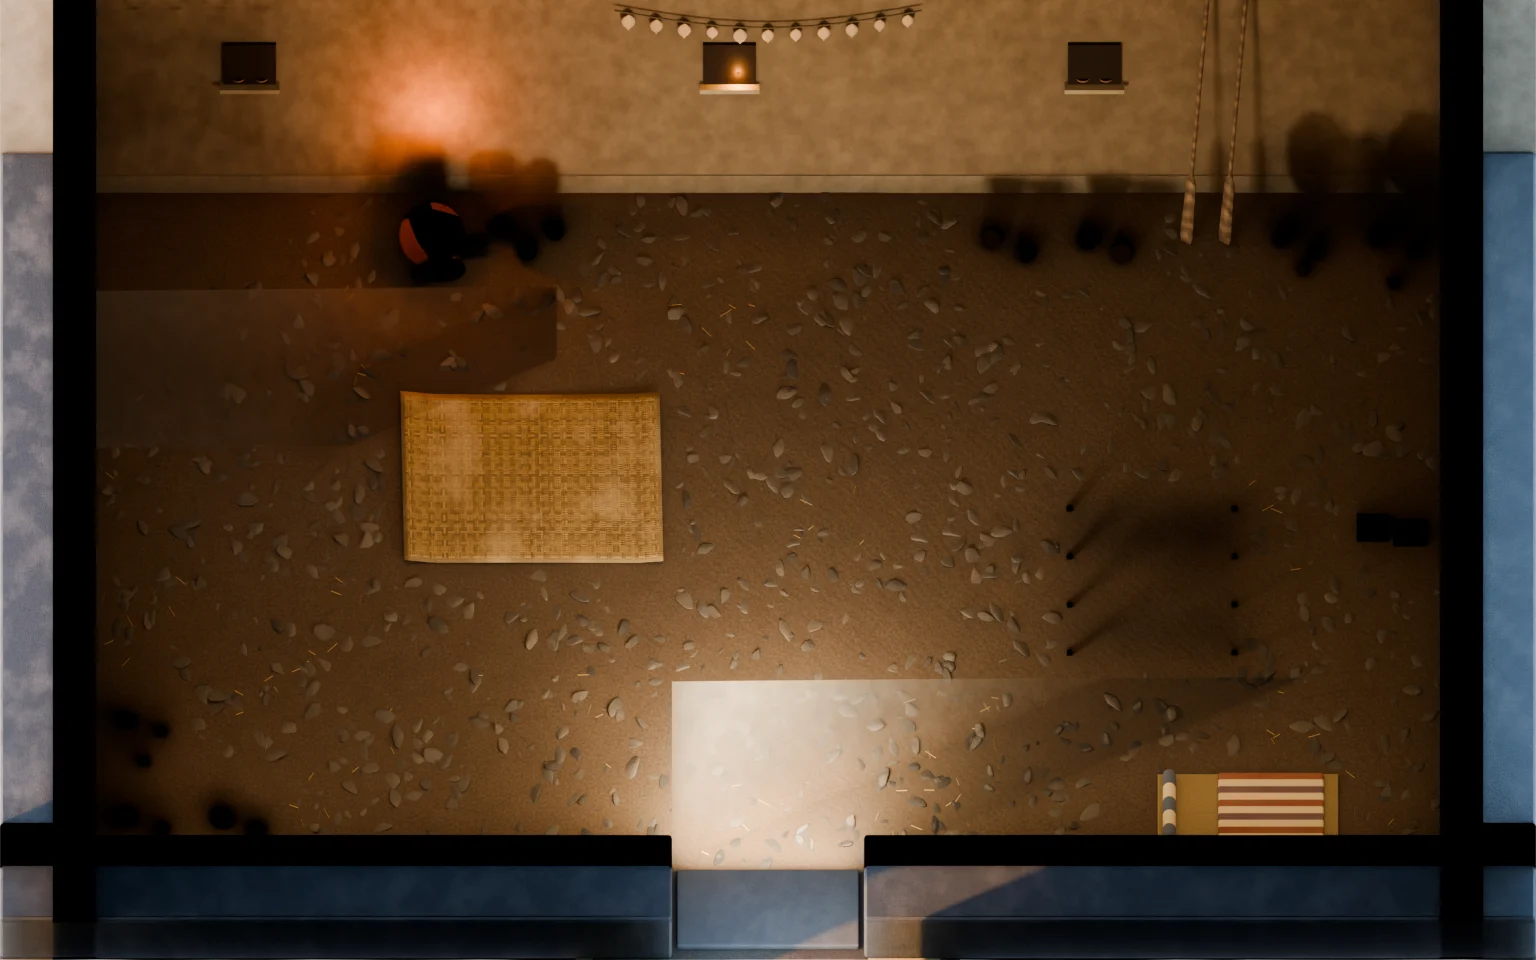
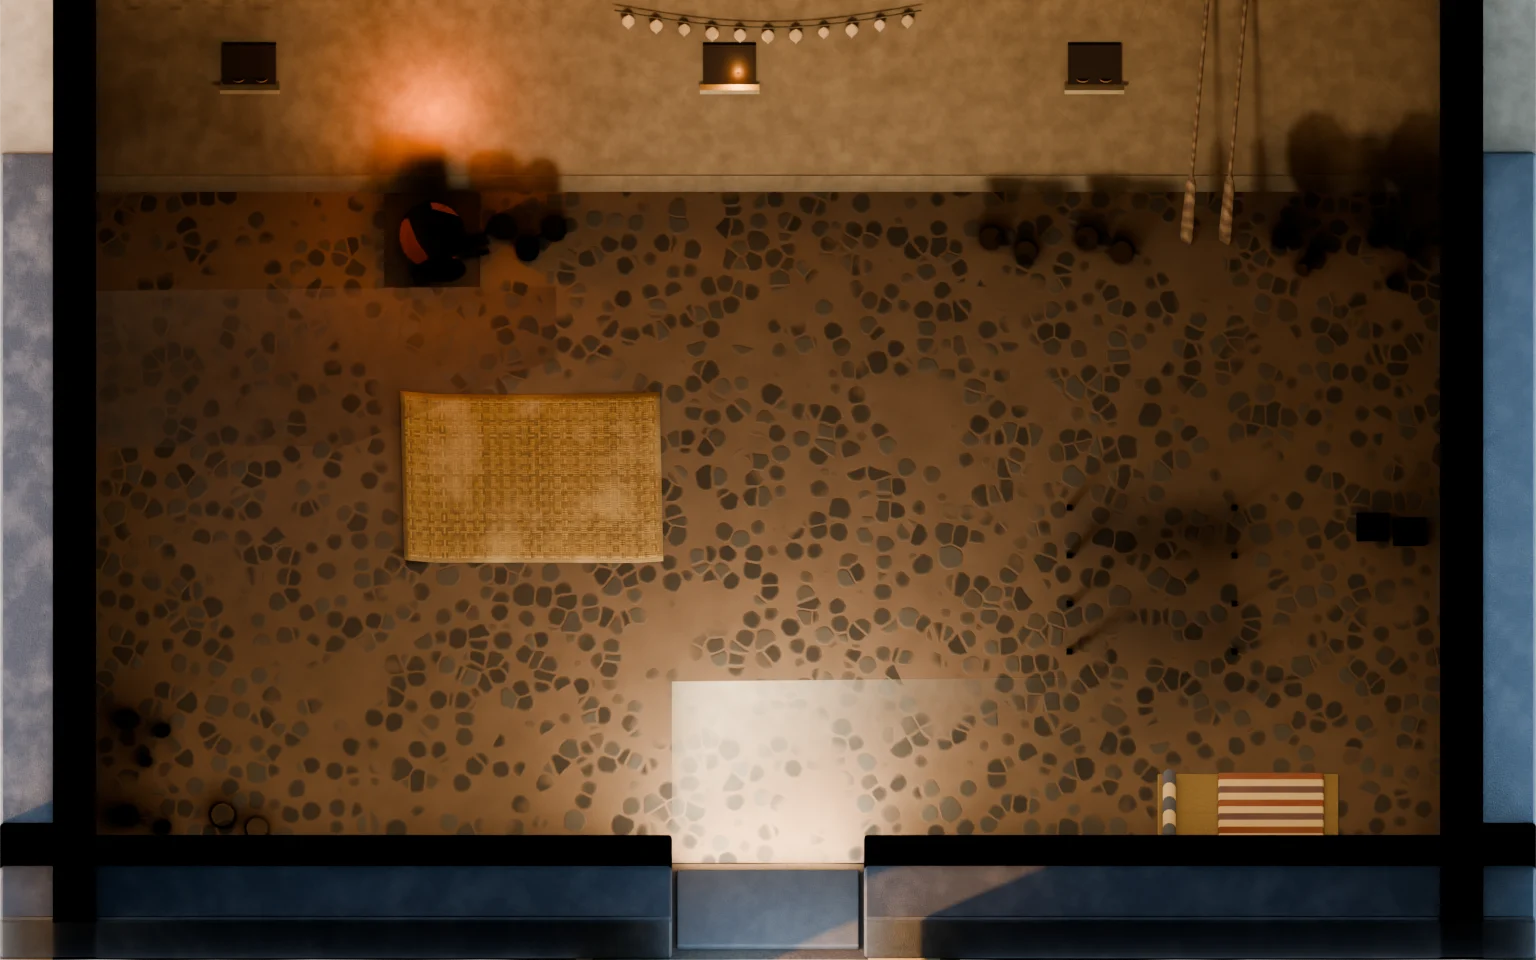
art(galilee): a cobbled earth floor in Shelomit's house
The room's floor stones were scattered meshes that read, in the game's
close view, as dry leaves strewn on the floor. The floor is now a surface
laid over the whole room (under whatever stands on it, not the hearth):
rounded basalt cobbles of their own sizes packed in beaten earth, worn
smooth, bare earth in worn patches and where a stone has gone. The house
is rendered again (both sets).

diff --git a/tools/art/lib/lake_materials.py b/tools/art/lib/lake_materials.py
@@ -398,6 +398,73 @@ def linen(color="#ddd2b8", name="sail-linen", patches=True):
     return cached(("linen", color, name, patches), build)
 
 
+def cobble_floor(earth="#5c4a3a", stone="#34312d", name="cobble-floor"):
+    """A house floor of basalt cobbles packed in beaten earth, seen from
+    above: rounded stones a hand to two hands across, set close, each its
+    own tone, their tops worn smooth and a little glossy; earth between
+    them, and bare earth where the stones have gone (in worn patches).
+    Object coordinates in metres."""
+
+    def build():
+        n = Nodes(name)
+        obj = n.coords()
+        # Stones: Voronoi cells, warped a little so they are not polygons.
+        warp = n.noise(5.0, 3.0, 0.55, obj)
+        wv = n.new("ShaderNodeVectorMath", _operation="MULTIPLY_ADD", Vector=(warp, "Color"))
+        wv.inputs[1].default_value = (0.07, 0.07, 0.0)
+        n.link(obj[0], obj[1], wv, 2)
+        cells = n.new("ShaderNodeTexVoronoi", Scale=4.6, Randomness=0.9, Vector=(wv, "Vector"))
+        edge = n.new("ShaderNodeTexVoronoi", Scale=4.6, Randomness=0.9, Vector=(wv, "Vector"), _feature="DISTANCE_TO_EDGE")
+        sepc0 = n.new("ShaderNodeSeparateColor", Color=(cells, "Color"))
+        # A stone is a rounded lump about its cell's centre, of its own size
+        # (so the gaps between stones vary), never past the cell's edge.
+        radius = n.math("MULTIPLY_ADD", (sepc0, "Blue"), 0.22)
+        radius.inputs[2].default_value = 0.44
+        inside = n.math("SUBTRACT", (radius, "Value"), (cells, "Distance"))
+        body = n.new("ShaderNodeMapRange", Value=(inside, "Value"), **{"From Min": 0.0, "From Max": 0.12, "To Min": 0.0, "To Max": 1.0})
+        body.clamp = True
+        clear = n.new("ShaderNodeMapRange", Value=(edge, "Distance"), **{"From Min": 0.03, "From Max": 0.09, "To Min": 0.0, "To Max": 1.0})
+        clear.clamp = True
+        rim = n.math("MULTIPLY", (body, "Result"), (clear, "Result"))
+        # Rounded (the earth creeps up its sides).
+        dome = n.math("SQRT", (rim, "Value"))
+        # Worn patches of bare earth (stones gone or buried), and single
+        # stones missing here and there.
+        patch = n.noise(0.9, 3.0, 0.55, obj)
+        pm = n.new("ShaderNodeMapRange", Value=(patch, "Fac"), **{"From Min": 0.56, "From Max": 0.62, "To Min": 1.0, "To Max": 0.0})
+        sepc = n.new("ShaderNodeSeparateColor", Color=(cells, "Color"))
+        gone = n.new("ShaderNodeMapRange", Value=(sepc, "Green"), **{"From Min": 0.9, "From Max": 0.91, "To Min": 1.0, "To Max": 0.0})
+        keep = n.math("MULTIPLY", (pm, "Result"), (gone, "Result"))
+        is_stone = n.math("MULTIPLY", (dome, "Value"), (keep, "Value"))
+        # Each stone its own tone: dark basalt, a few grey or brown.
+        tone = n.ramp((sepc, "Red"), [(0.0, shade(stone, -0.18)), (0.45, stone), (0.75, shade(stone, 0.1)), (0.9, _toward(stone, "#5e5044", 0.4)), (1.0, shade(stone, -0.08))])
+        pits = n.new("ShaderNodeTexVoronoi", Scale=180.0, Vector=obj)
+        pv = n.new("ShaderNodeMapRange", Value=(pits, "Distance"), **{"From Min": 0.0, "From Max": 0.1, "To Min": 0.45, "To Max": 0.0})
+        stone_col = (n.mix((pv, "Result"), (tone, "Color"), shade(stone, -0.5)), 2)
+        # Dust in the stones' low sides, the tops polished by feet.
+        dust = n.math("SUBTRACT", 1.0, (dome, "Value"))
+        dm = n.math("MULTIPLY", (dust, "Value"), 0.25)
+        stone_col = (n.mix((dm, "Value"), stone_col, earth), 2)
+        # The earth: grit, mottling, crumbs of straw.
+        big = n.noise(2.5, 4.0, 0.6, obj)
+        ec = (n.mix((big, "Fac"), shade(earth, -0.14), shade(earth, 0.08)), 2)
+        grit = n.new("ShaderNodeTexVoronoi", Scale=90.0, Vector=obj)
+        gm = n.new("ShaderNodeMapRange", Value=(grit, "Distance"), **{"From Min": 0.0, "From Max": 0.12, "To Min": 0.4, "To Max": 0.0})
+        ec = (n.mix((gm, "Result"), ec, shade(earth, -0.4)), 2)
+        col = (n.mix((is_stone, "Value"), ec, stone_col), 2)
+        rough = n.new("ShaderNodeMapRange", Value=(is_stone, "Value"), **{"From Min": 0.0, "From Max": 1.0, "To Min": 0.95, "To Max": 0.62})
+        fine = n.noise(60.0, 4.0, 0.6, obj)
+        fm = n.math("MULTIPLY", (fine, "Fac"), 0.08)
+        h = n.math("ADD", (is_stone, "Value"), (fm, "Value"))
+        pvm = n.math("MULTIPLY", (pv, "Result"), 0.2)
+        h = n.math("SUBTRACT", (h, "Value"), (pvm, "Value"))
+        bump = n.bump((h, "Value"), strength=0.4, distance=0.012)
+        n.bsdf(**{"Base Color": col, "Roughness": (rough, "Result"), "Specular IOR Level": 0.4, "Normal": (bump, "Normal")})
+        return n.mat
+
+    return cached(("cobble_floor", earth, stone, name), build)
+
+
 def rush_mat(color="#a88c5c", binding="#6e5a3c", name="rush-mat"):
     """A plaited rush mat (UV: 0..1 across it, `size` in metres as the
     object's 'mat_w'/'mat_h'): strips a finger wide plaited over-and-under

diff --git a/tools/art/lib/kit_lake.py b/tools/art/lib/kit_lake.py
@@ -635,18 +635,6 @@ class LakeKit(BoatsMixin, HousesMixin):
                 c.objects.unlink(o)
             cob.objects.link(o)
         out["cobbles"] = cob
-        # The same stones in dusty basalt, flattened: a floor's cobbles.
-        flr = col("floorstones")
-        # Worn smooth and dark by feet, a little dust in the hollows.
-        fmat = L.basalt("#3c3833", "floor-basalt", dust=0.08, lichen=0.0)
-        for o in list(cob.objects):
-            c = o.copy()
-            c.data = o.data.copy()
-            c.data.materials.clear()
-            c.data.materials.append(fmat)
-            c.data.transform(Matrix.Scale(0.55, 4, Vector((0, 0, 1))))
-            flr.objects.link(c)
-        out["floorstones"] = flr
         sh = col("shells")
         smat = L.shell()
         for t in range(3):
@@ -1440,13 +1428,22 @@ class LakeKit(BoatsMixin, HousesMixin):
         self.exposure += 0.35
         m = self.map
         rng = self.rng
-        lib = self._lake_library()
-        floor = m.tiles("floor")
-        # Set close in the beaten earth, their tops worn flat, over most of
-        # the floor (bare earth by the oven and in a few worn patches).
-        em = self.emitter("floor-cobbles", floor, 2, lambda x0, y0: (x0 * 3.7 + y0 * 5.3) % 1.0 < 0.8, z=-0.03)
-        em["wet_z"] = -5.0
-        scatter.scatter(em, lib["floorstones"], 26.0, (0.09, 0.15), seed=161, rotate_z_only=True, pick=True)
+        # Basalt cobbles set close in the beaten earth over the floor (bare
+        # earth in worn patches), laid as a surface just over the floor and
+        # under whatever stands on it (not the oven's hearth).
+        inside = [(x, y) for y in range(m.h) for x in range(m.w) if m.kind(x, y) not in ("wall", "door", "void", "oven")]
+        bm = bmesh.new()
+        # Fine enough to follow the floor's own unevenness, and a little over
+        # it, so none of the floor beneath shows through.
+        k = 6
+        for x, y in inside:
+            g = [[bm.verts.new(self.P(x + i / k, y + j / k, 0.012)) for i in range(k + 1)] for j in range(k + 1)]
+            for j in range(k):
+                for i in range(k):
+                    bm.faces.new((g[j][i], g[j][i + 1], g[j + 1][i + 1], g[j + 1][i]))
+        bmesh.ops.remove_doubles(bm, verts=bm.verts, dist=1e-4)
+        cob = common.mesh_object("floor-cobbles", bm, L.cobble_floor(), None, smooth=False)
+        self.to_ground(cob)
         back = min((y for y in range(m.h) if any(m.kind(x, y) == "floor" for x in range(m.w))), default=2)
         # A cord along the back wall, small fish split and hung on it.
         cord_mat = L.rope("#8c7a58", "fish-cord")
